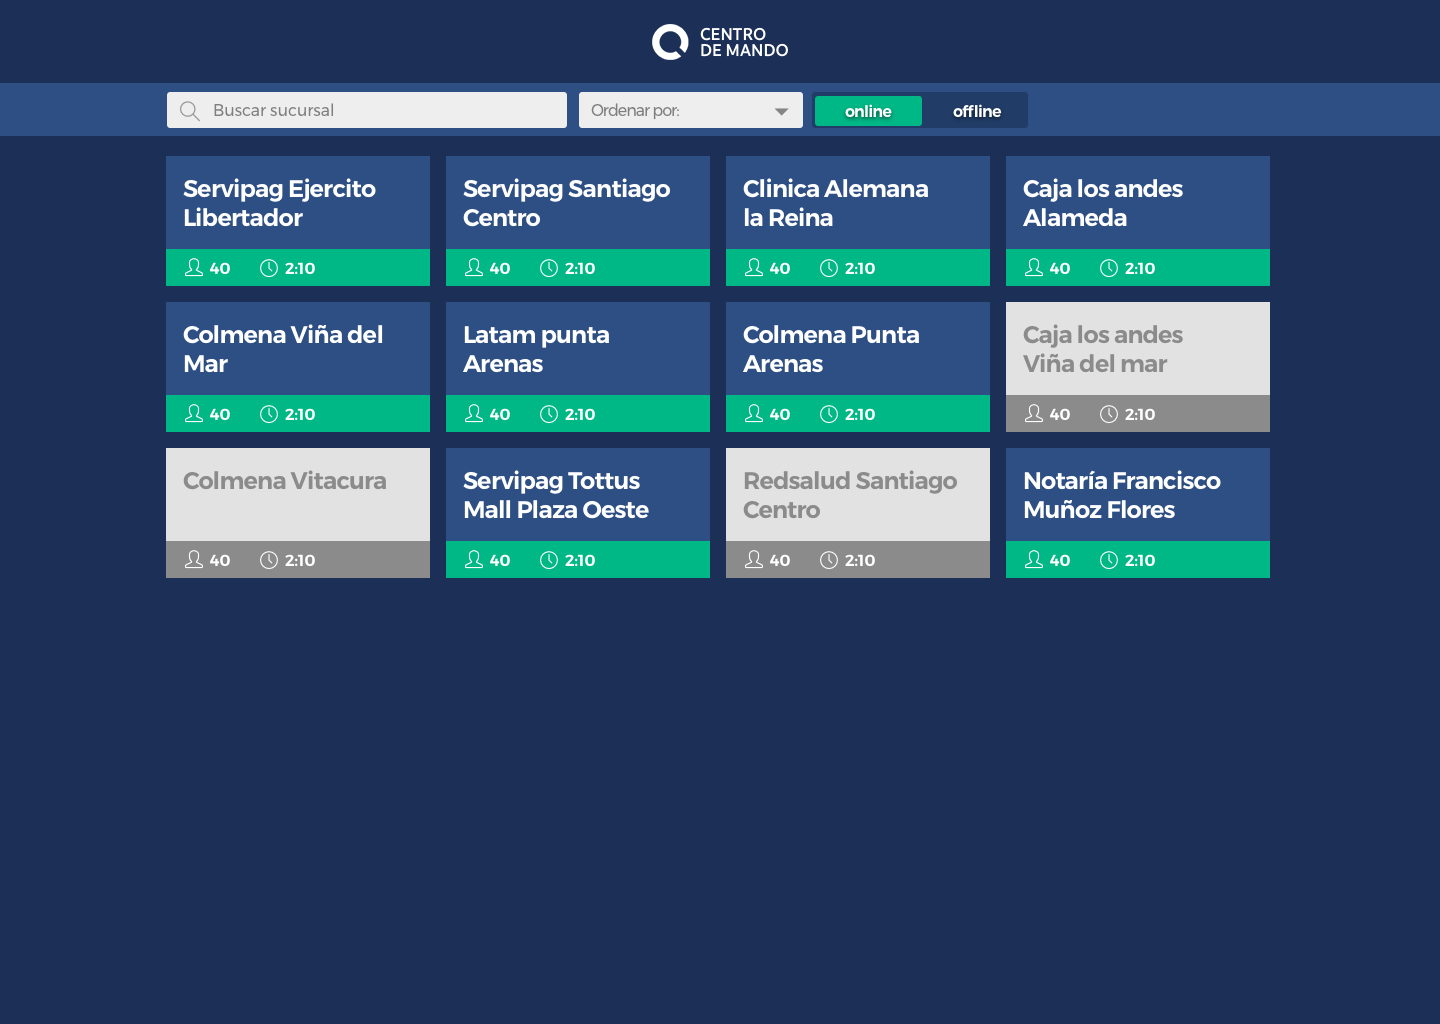
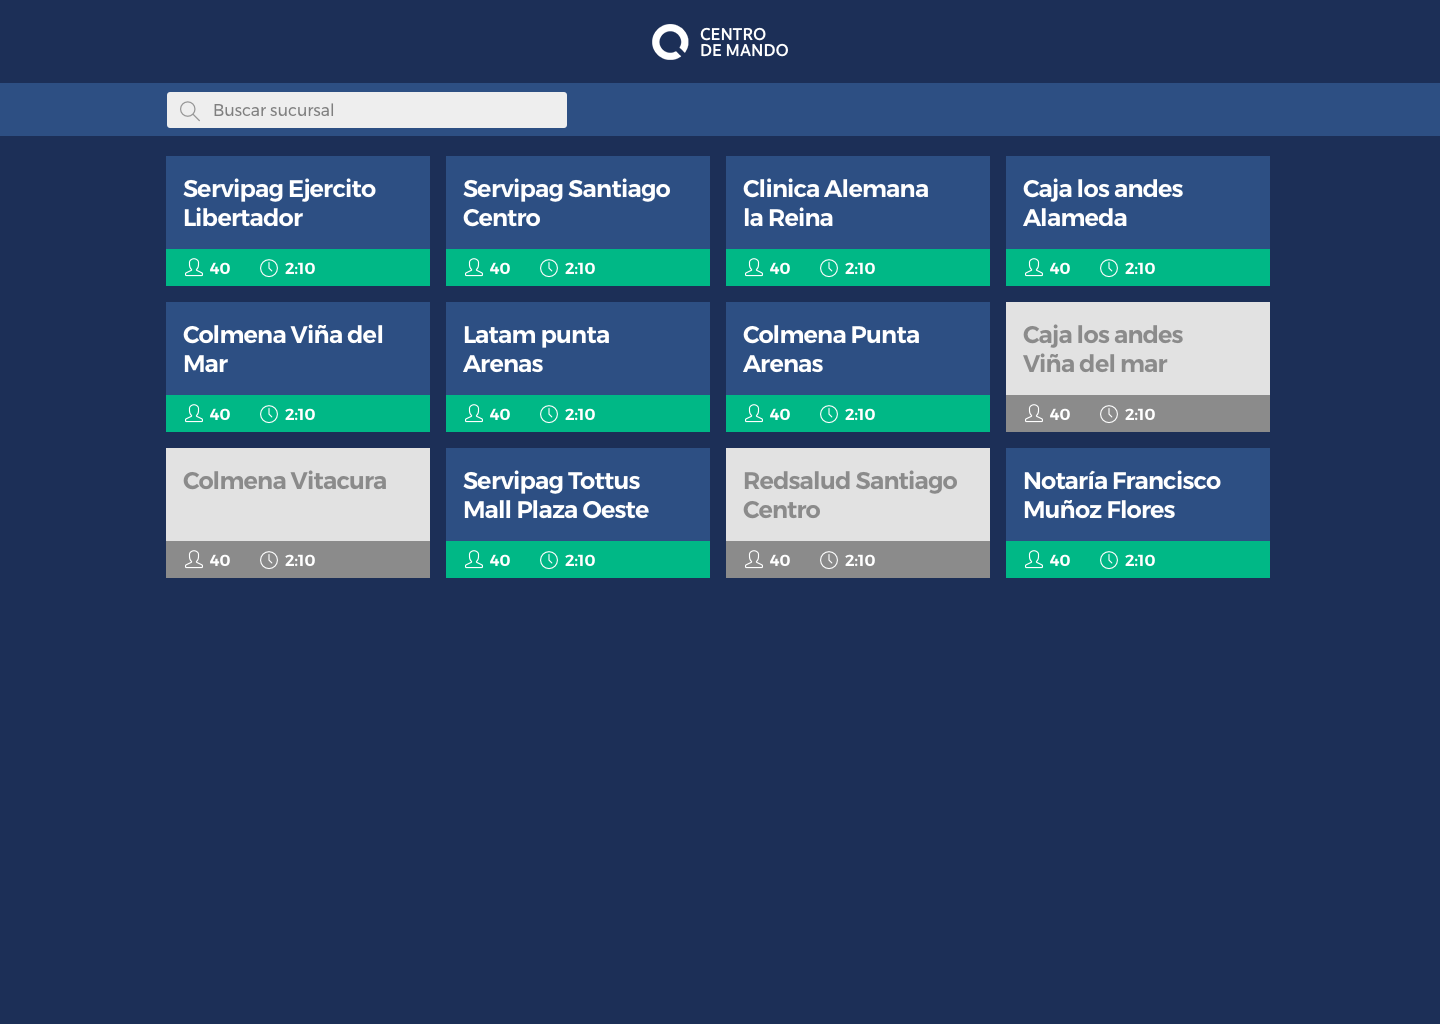
add screens legend

Changed region(s): [[0.375, 0.0625, 0.7188, 0.125]]

diff --git a/README.md b/README.md
@@ -1,14 +1,14 @@
 # Desafio Frontend Zeroq
 
-Zeroq esta en busca de un desarrollador frontend para unirse a su equipo de desarrollo, este desafío tiene la finalidad de poner a prueba los conocimientos minimos que requerimos para este puesto.
+Zeroq esta en busca de un desarrollador frontend para unirse a su equipo de desarrollo, este desafío tiene la finalidad de poner a prueba los conocimientos deseables para este puesto.
 
-El desafío consiste en consimir una API Restful, luego listar, ordenar y agrupar las oficinas proporcionadas según algunos atributos.
+El desafío consiste en consumir una API Restful, luego listar  las oficinas proporcionadas con algunos atributos.
 
-Se proporcionará, un mockup de como debe quedar el prototipo y de las interacciones que debería tener.
+Se proporcionará, un mockup de como debe quedar el prototipo. Este es una version muy simple y reducida de nuestro dashboard en tiempo real (Centro de mando), y lo que queremos es validar que el concursante pueda maquetar un diseño dado fielmente.
 
 ## Restricciones
 
-1. Se debe realizar usando el framework react.js ( Esto es excluyente ya que es el framework que usamos en todos nuestros front y es de gran importancia )
+1. Se debe realizar usando el framework react.js ( Esto es excluyente ya que es el framework que usamos en todos nuestros front )
 
 2. Se puede usar cualquier libreria
 
@@ -25,28 +25,32 @@ El unico endpoint a consultar será:
 
 En la carpeta assets de este proyecto estaran las imagenes de guía y logotipo.
 
+Prototipo a realizar:
+
+![Prototipo](assets/screens/index.png "prototipo")
+
+Leyenda de ayuda para conocer donde deben mostrarse los datos:
+
+![Leyenda](assets/screens/legend.png "Leyenda")
+
 ## Lo que debes realizar
 
 #### 1. Listar las oficinas proporcionadas en el endpoint.
-#### 2. Agregar un campo de texto para filtrar oficinas por su nombre.
-El nombre se obtiene en el tributo `name` de cada oficina
-
-#### 3. Agregar un campo select para ordenar oficinas por personas en fila y tiempo promedio de atención.
 
 Cada oficina tiene un atributo `lines` y a su vez cada una de ellas tienen atributos `waiting` que son personas en fila y `elapsed` que es el tiempo promedio de atención de esa fila en segundos.
 
 - Para obtener el total de personas en fila hay que sumar los `waiting` de las filas de una oficina.
 - Para obtener a atención promedio hay que promediar los `elapsed` de las filas de las oficinas y mostrarlas en formato `HH:mm:ss`.
 
-#### 4. Filtrar oficinas por estado de conexión
+#### 2. Agregar un campo de texto para filtrar oficinas por su nombre.
+El nombre se obtiene en el tributo `name` de cada oficina
 
-El Estado se obtiene en el tributo `online` de cada oficina, que es un booleano.
 
-#### 5. Maquetar segun diseño entregado
+#### 3. Maquetar segun diseño entregado
 
 Se evalua que el prototipo se parezca lo mas posible a los screens proporcionados.
 
-#### 6. Enviar repositorio con el prototipo
+#### 4. Enviar repositorio con el prototipo
 
 Se debe enviar el repositorio con un readme donde se explique como construir, correr y testear la aplicación.
 
